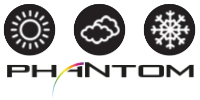
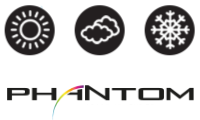
image changes

diff --git a/hotspot-styles.css b/hotspot-styles.css
@@ -172,7 +172,8 @@ p.ex2 {
 
 .images {
 /*    margin-right:5%;*/
-    width:35%;
+    max-width:35%;
+    width: 150px;
     object-fit:contain;
 /*    display:none;*/
 }
